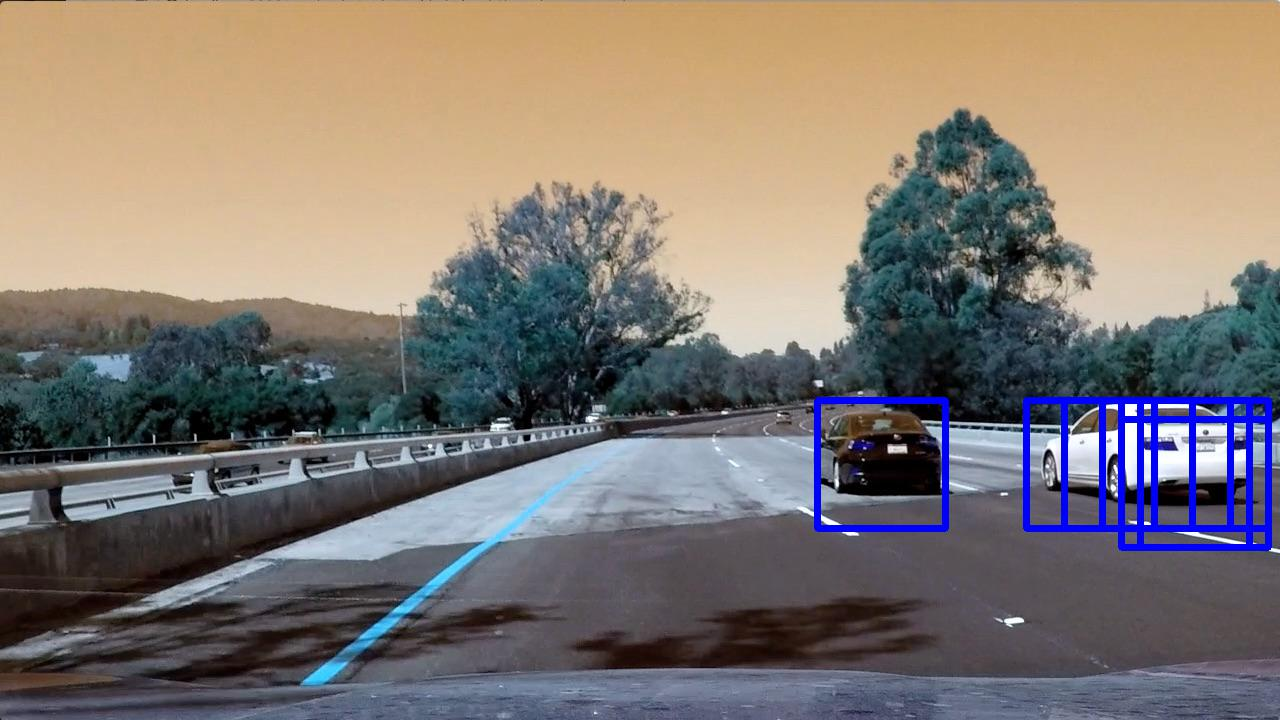
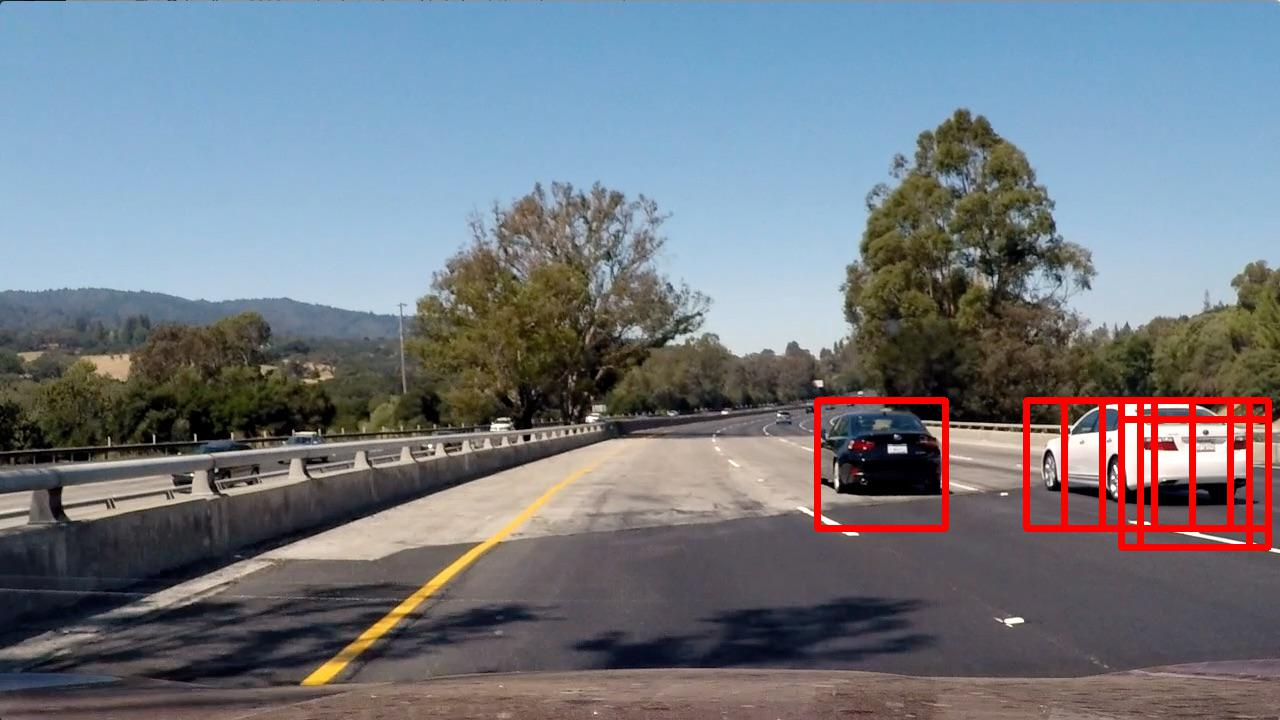
rbg output fixed

diff --git a/main.py b/main.py
@@ -22,7 +22,7 @@ for image_p in glob.glob('test_images/test*.jpg'):
     window_img = draw_boxes(draw_image, hot_windows, color=(0, 0, 255), thick=6)                    
     show_img(window_img)
     plt.show()
-    scipy.misc.imsave('output_'+image_p, window_img)    
+    scipy.misc.imsave('output_'+image_p, cv2.cvtColor(window_img, cv2.COLOR_BGR2RGB))    
 
 print(round(time.time()-t, 2), 'Seconds to process test images')
 
@@ -38,28 +38,17 @@ windows = slide_window(image, x_start_stop=[400, 880], y_start_stop=[400, 470],
 window_img = draw_boxes(window_img, windows, color=(255, 0, 0), thick=6)                    
 show_img(window_img)
 plt.show()
-scipy.misc.imsave('output_test_images/window.jpg', window_img)    
+scipy.misc.imsave('output_test_images/window.jpg', cv2.cvtColor(window_img, cv2.COLOR_BGR2RGB))    
 
-    
-#pipeline on images
-# t=time.time() # Start time
-# for image_p in glob.glob('test_images/test*.jpg'):
-#     image = cv2.imread(image_p)
-#     window_img=frame_proc(image, lane=False, vis=False)
-#     show_img(window_img)
-#     plt.show()
-#     scipy.misc.imsave('output_advanced_'+image_p, window_img)    
-
-# print(round(time.time()-t, 2), 'Seconds to process test images')
 
 #Video Pipeline
-from moviepy.editor import VideoFileClip
-n_count = 0
-def process_image(image):
-    image = cv2.cvtColor(image, cv2.COLOR_RGB2BGR)
-    return cv2.cvtColor(frame_proc(image, lane=False, video=True, vis=False), cv2.COLOR_BGR2RGB)
+# from moviepy.editor import VideoFileClip
+# n_count = 0
+# def process_image(image):
+#     image = cv2.cvtColor(image, cv2.COLOR_RGB2BGR)
+#     return cv2.cvtColor(frame_proc(image, lane=False, video=True, vis=False), cv2.COLOR_BGR2RGB)
 
-output_v = 'project_video_proc.mp4'
-clip1 = VideoFileClip("project_video.mp4")
-clip = clip1.fl_image(process_image)
-clip.write_videofile(output_v, audio=False)
+# output_v = 'project_video_proc.mp4'
+# clip1 = VideoFileClip("project_video.mp4")
+# clip = clip1.fl_image(process_image)
+# clip.write_videofile(output_v, audio=False)
